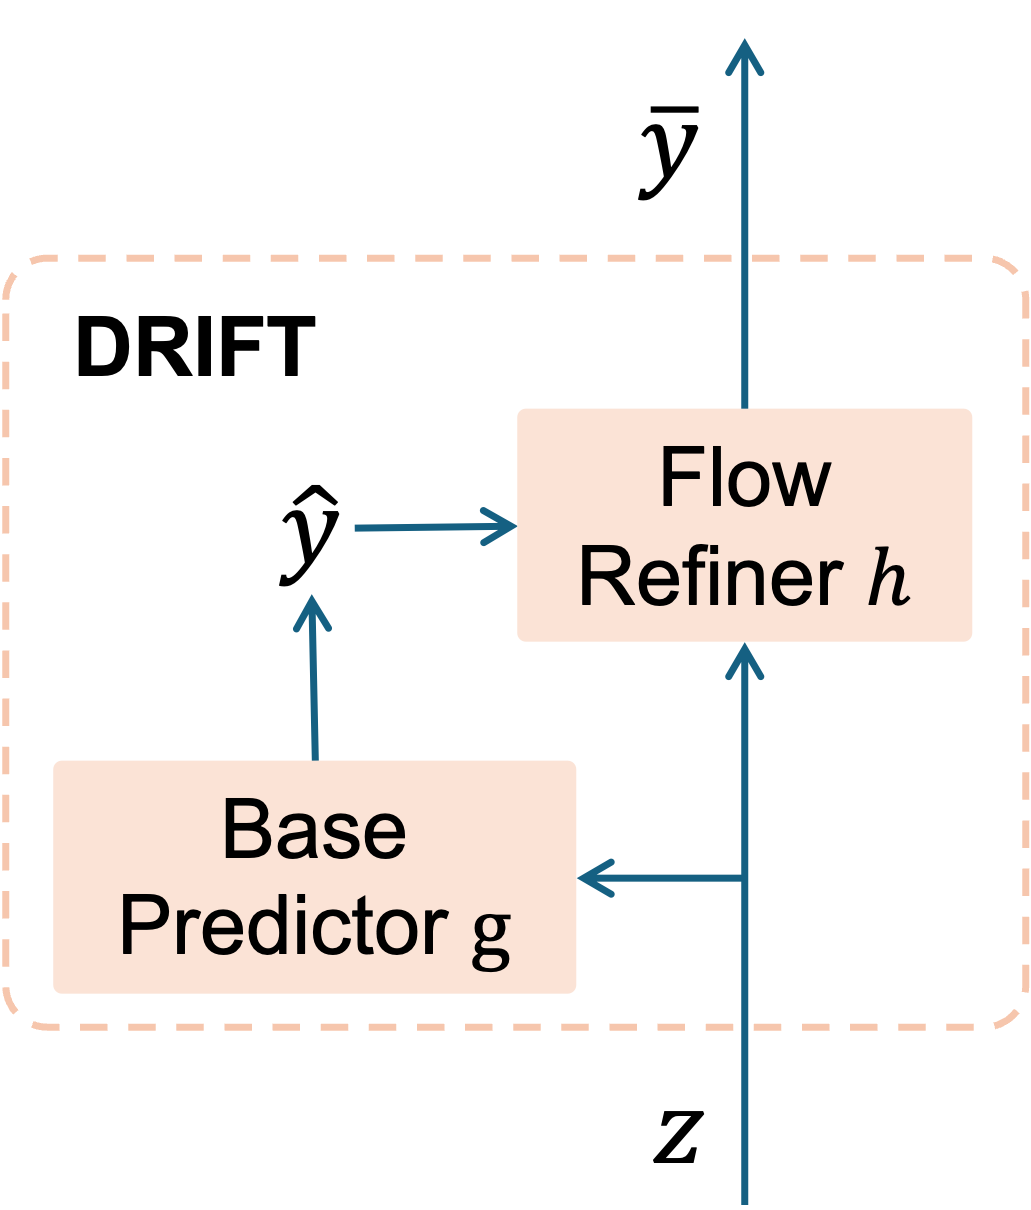
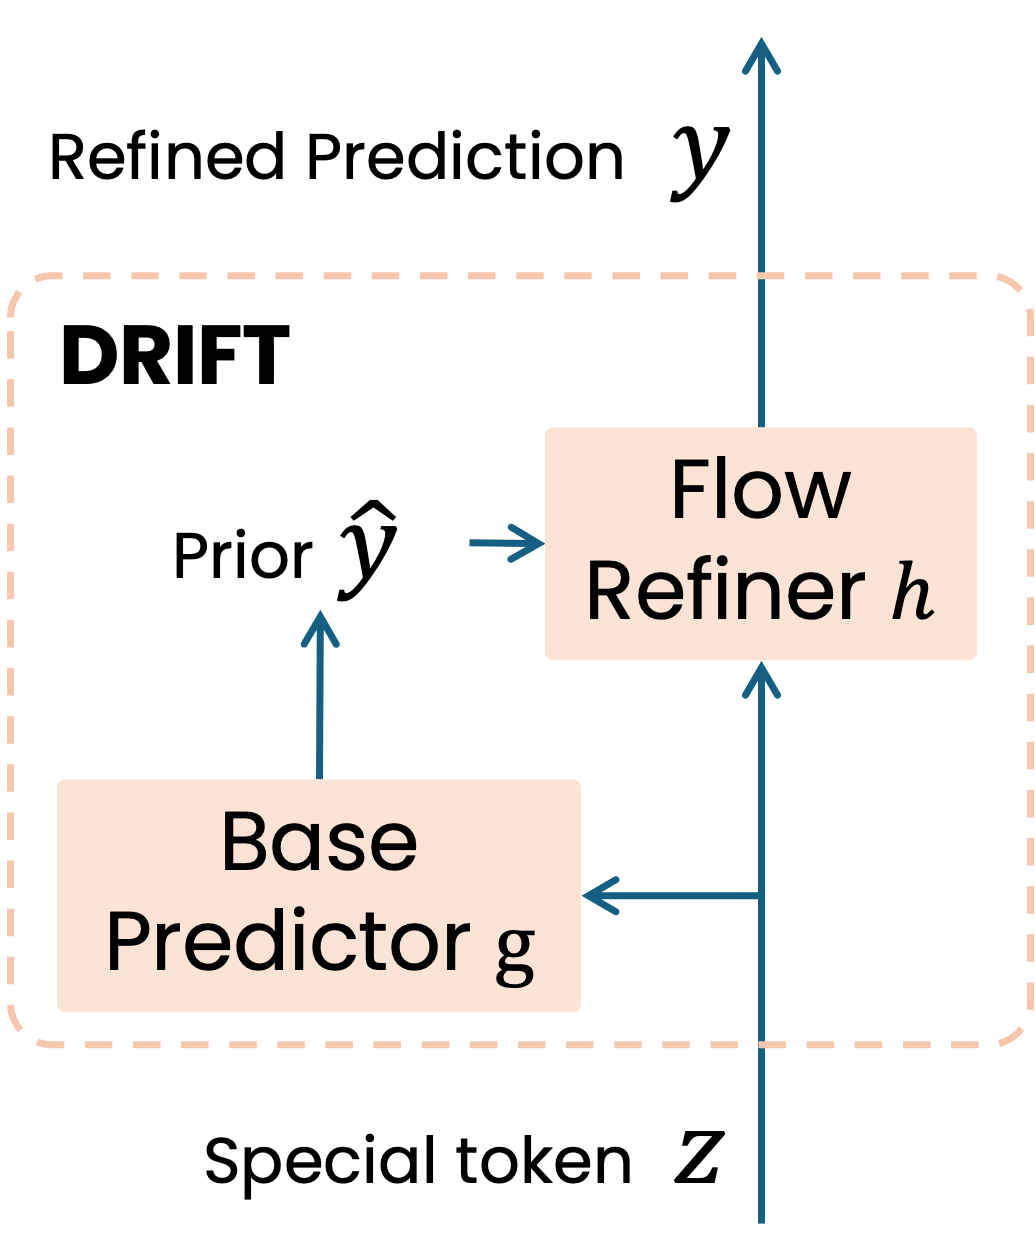
update for homepage

Changed region(s): [[0.0, 0.0306, 0.9932, 1.0], [0.9932, 0.2446, 1.0, 0.6421], [0.9932, 0.6727, 1.0, 0.8256]]

diff --git a/index.html b/index.html
@@ -600,7 +600,7 @@
             </div>
             <div class="stat-card">
                 <h3>Scope</h3>
-                <p>The adapter is designed for MLLMs, VLAs, and world-action models in perception and planning settings.</p>
+                <p>The adapter is designed for MLLMs, VLAs, and WAMs in perception and planning settings.</p>
             </div>
         </div>
     </div>
@@ -636,7 +636,7 @@
     <div class="container blog main">
         <h1>Performance</h1>
         <p class="text performance-lead">
-            DRIFT consistently improves continuous decoding across action generation, temporal localization, spatial grounding, and world-action modeling. Tables report the headline numbers from the results figures.
+            DRIFT consistently improves continuous decoding across action generation, temporal localization, spatial grounding, and world-action modeling.
         </p>
     </div>
 
@@ -940,7 +940,7 @@
                 </video>
                 <figcaption class="vla-video-caption">
                     <h3>Put the white mug on the plate and place the chocolate pudding to the right of the plate.</h3>
-                    <p>DRIFT place the cup on the plate precisel by iterative refine the action.</p>
+                    <p>DRIFT place the cup on the plate precisely by iterative refine the action.</p>
                 </figcaption>
             </figure>
             <figure class="vla-video-card">
@@ -995,7 +995,7 @@
     <div class="container blog main">
         <h1>Resources</h1>
         <p class="text">
-            The release links are exposed on the main page now so the project can be updated by replacing the placeholder URLs.
+            <!-- The release links are exposed on the main page now so the project can be updated by replacing the placeholder URLs. -->
         </p>
 
         <div class="resource-grid">
@@ -1005,11 +1005,11 @@
             </div>
             <div class="resource-card">
                 <h3><i class="fa-solid fa-code"></i> Code</h3>
-                <p>Slot prepared for the implementation repository. Replace the homepage button href with the public code URL.</p>
+                <p>Coming Soon!</p>
             </div>
             <div class="resource-card">
                 <h3><i class="fa-regular fa-face-smile"></i> Hugging Face</h3>
-                <p>Slot prepared for model checkpoints, datasets, or an interactive Space.</p>
+                <p>Stay tuned!</p>
             </div>
         </div>
     </div>
@@ -1019,11 +1019,11 @@
         <div class="timeline">
             <div class="timeline-item">
                 <h3>Training Code</h3>
-                <p>We will release the training code on github repository shortly.</p>
+                <p>We will release the training code on github repository soon.</p>
             </div>
             <div class="timeline-item">
                 <h3>Adaptor Checkpoints</h3>
-                <p>We will release the adaptor checkpoints in Huggingface shortly.</p>
+                <p>We will release the adaptor checkpoints in Huggingface soon.</p>
             </div>
             <!-- <div class="timeline-item">
                 <h3>Release Links</h3>
